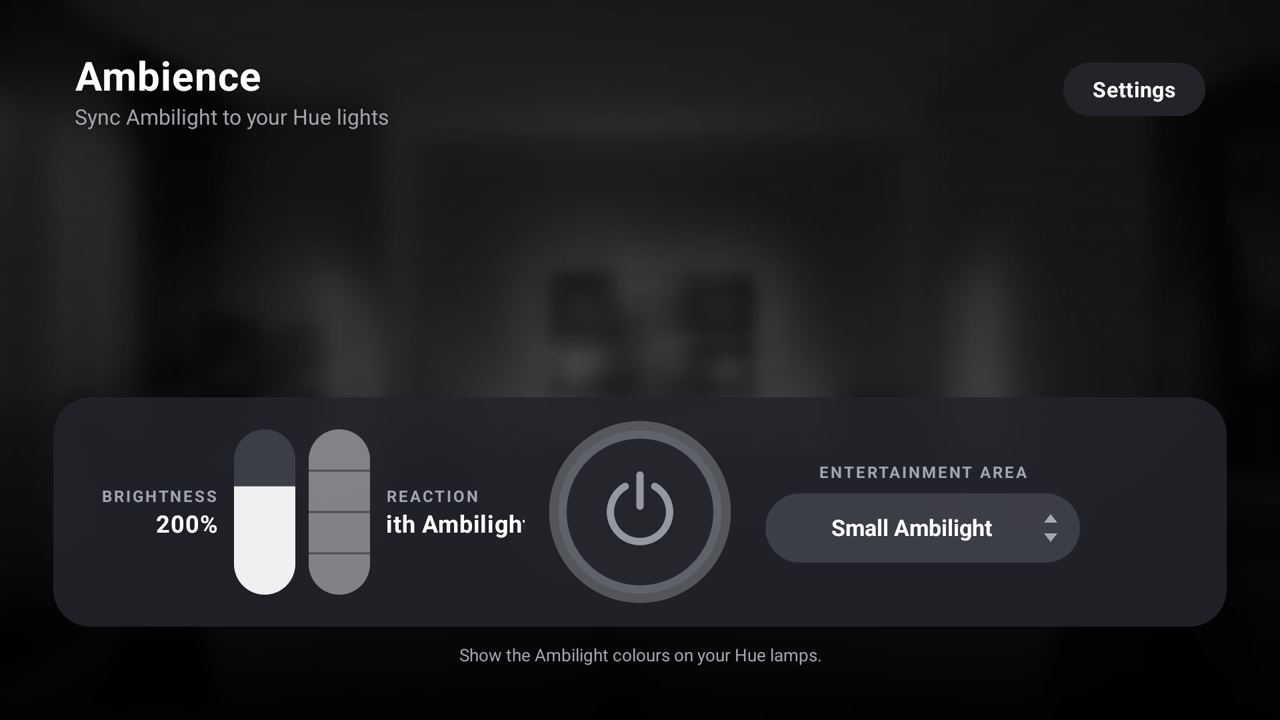
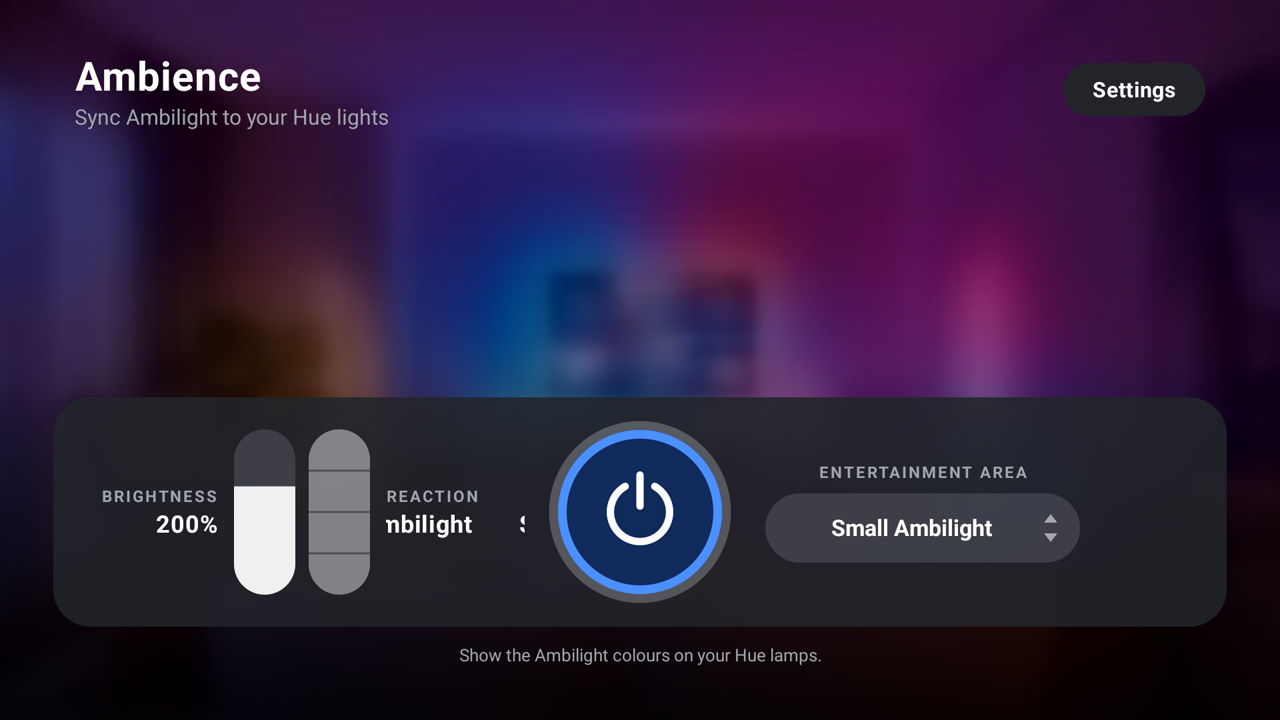
README: app tile at the top, main screen screenshot with Ambience on

diff --git a/README.md b/README.md
@@ -1,3 +1,5 @@
+<p align="center"><img src="docs/banner.png" alt="Ambience app tile" width="480"></p>
+
 # Ambience
 
 **Sync Ambilight to your Hue lights.** Ambience is a small Android TV app that runs on a Philips Ambilight TV and mirrors the TV's Ambilight colours onto the lamps of a Hue entertainment area in real time.
